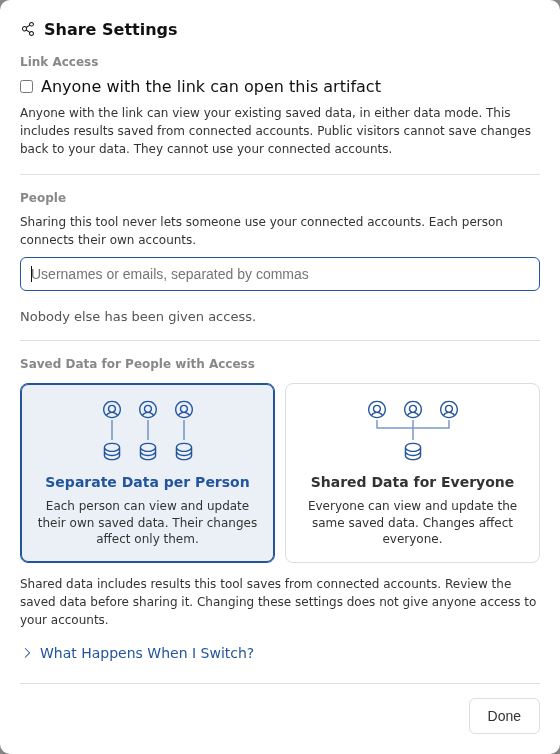
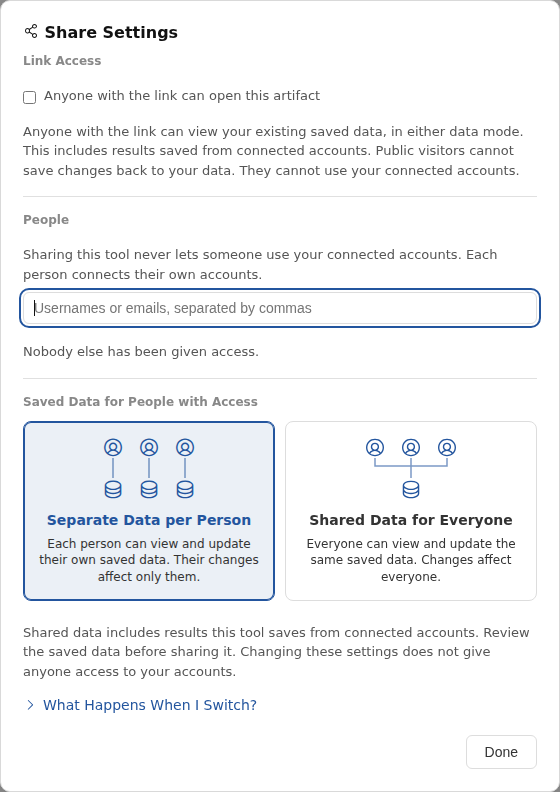
fix(connectors): integrate shared dialogs after rebase

Changed region(s): [[0.0304, 0.0305, 0.9714, 0.9151], [0.85, 0.9456, 0.9714, 0.9761]]

diff --git a/.tickets/Exh-o0gv.md b/.tickets/Exh-o0gv.md
@@ -1,6 +1,6 @@
 ---
 id: Exh-o0gv
-status: closed
+status: in_progress
 deps: []
 links: []
 created: 2026-11-01T17:31:30Z
@@ -27,3 +27,11 @@ Implemented the five findings with regression coverage: durable managed-account 
 **2026-11-01T18:06:15Z**
 
 Completed and rebased onto main 3c45711. All five findings have regression coverage. Failed managed saves and abandoned flows retain durable remote cleanup ownership; ordinary browser GET caching and no-cache/no-store behavior work; schedules verify enabled accounts before fetch and save; cache expiry/count/byte limits are enforced with covering-index metadata pruning. Reconnect identity and grants remain intact, and flow locks are released safely after failed setup. Full go test -json -timeout 20m ./... passed (23 tested packages, 2,713 passing cases); go vet ./..., make assets, all 439 gallery tests and focused connector lifecycle/lock race tests passed. Metadata pruning measured 34 ms at a 256 MiB cache versus 4.8 s before optimization. Documentation updated; no UI layout changed, so current screenshots remain applicable. Live provider validation and indeterminate provider-response reconciliation remain in Exh-3kvx.
+
+**2026-11-01T21:44:58Z**
+
+Reopened for current readiness blockers: rebase over the shared-modal migration and diagnose CI timeout in TestPersonalConnectionsBrowser/1280 while submitting the advanced reconnect form. Preserve modal lifecycle, connector access checks and navigation privacy during integration.
+
+**2026-11-01 — Shared-modal integration**
+
+Rebased onto main 8393af8d, retaining shared native dialog lifecycles, stale-preview checks, connector navigation policy checks and no-referrer navigation. Corrected the VM module test fixture and removed a duplicate component script include. All 444 gallery tests, vet, asset/server builds, six Playwright journeys and refreshed personal-connection screenshots pass. Reproduced the intermittent desktop reconnect submission timeout locally with CI Chromium 1248; diagnosis and full Go validation remain in progress.

diff --git a/docs/relay-connectors.md b/docs/relay-connectors.md
@@ -505,6 +505,11 @@ icons while GitHub relay requests return successfully, without clearing state
 or changing the saved approvals. Updated interface evidence is in
 [screenshots/Exh-s47o](screenshots/Exh-s47o).
 
+The shared native sharing dialog keeps account access separate from saved-result
+sharing. Viewer navigation checks connection-data policy before opening a link
+and again after permission, discards stale preview requests, and preserves
+no-referrer navigation.
+
 The personal-account and advanced-setup corrections are shown in
 [screenshots/Exh-k6gt](screenshots/Exh-k6gt):
 
